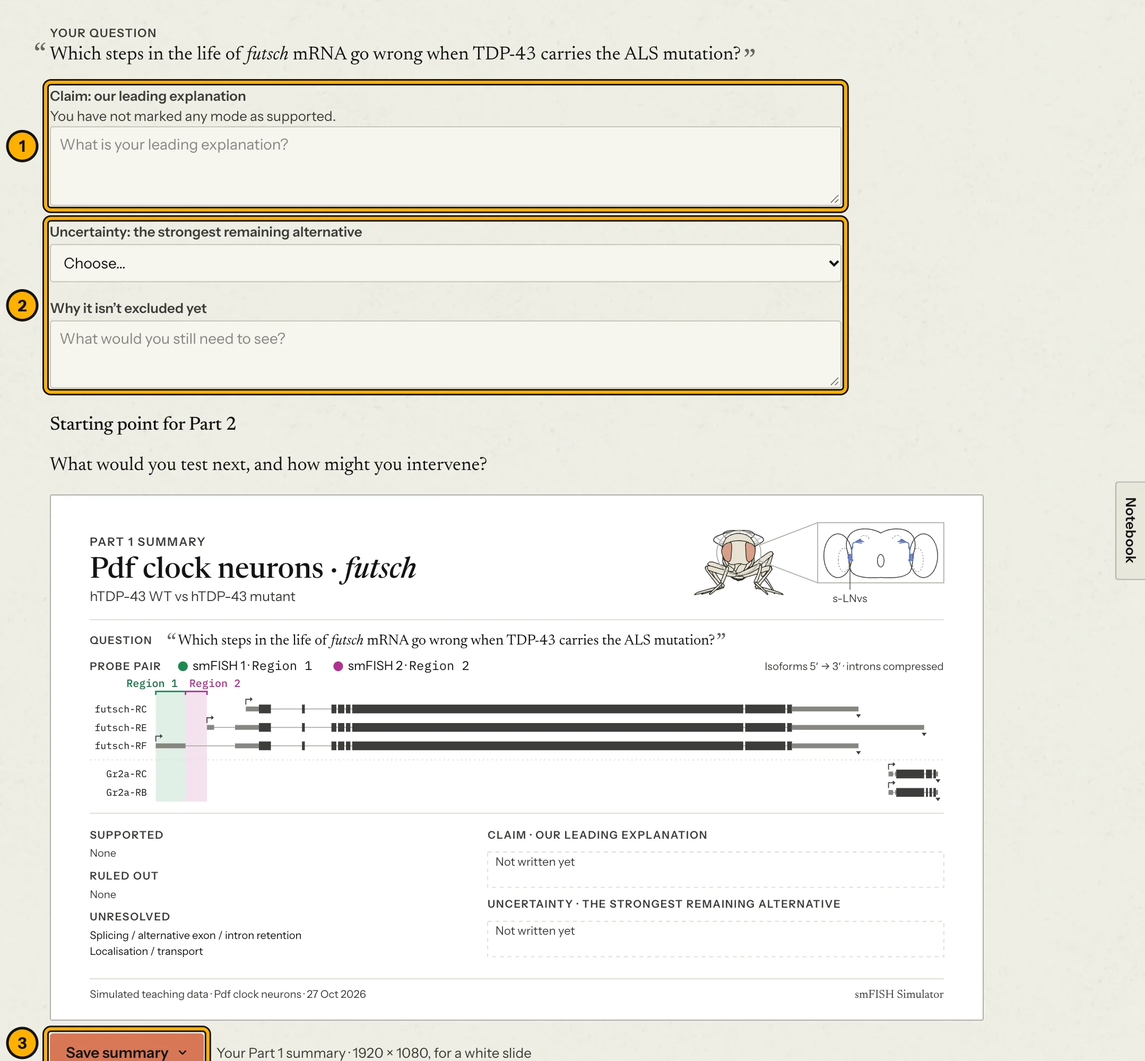
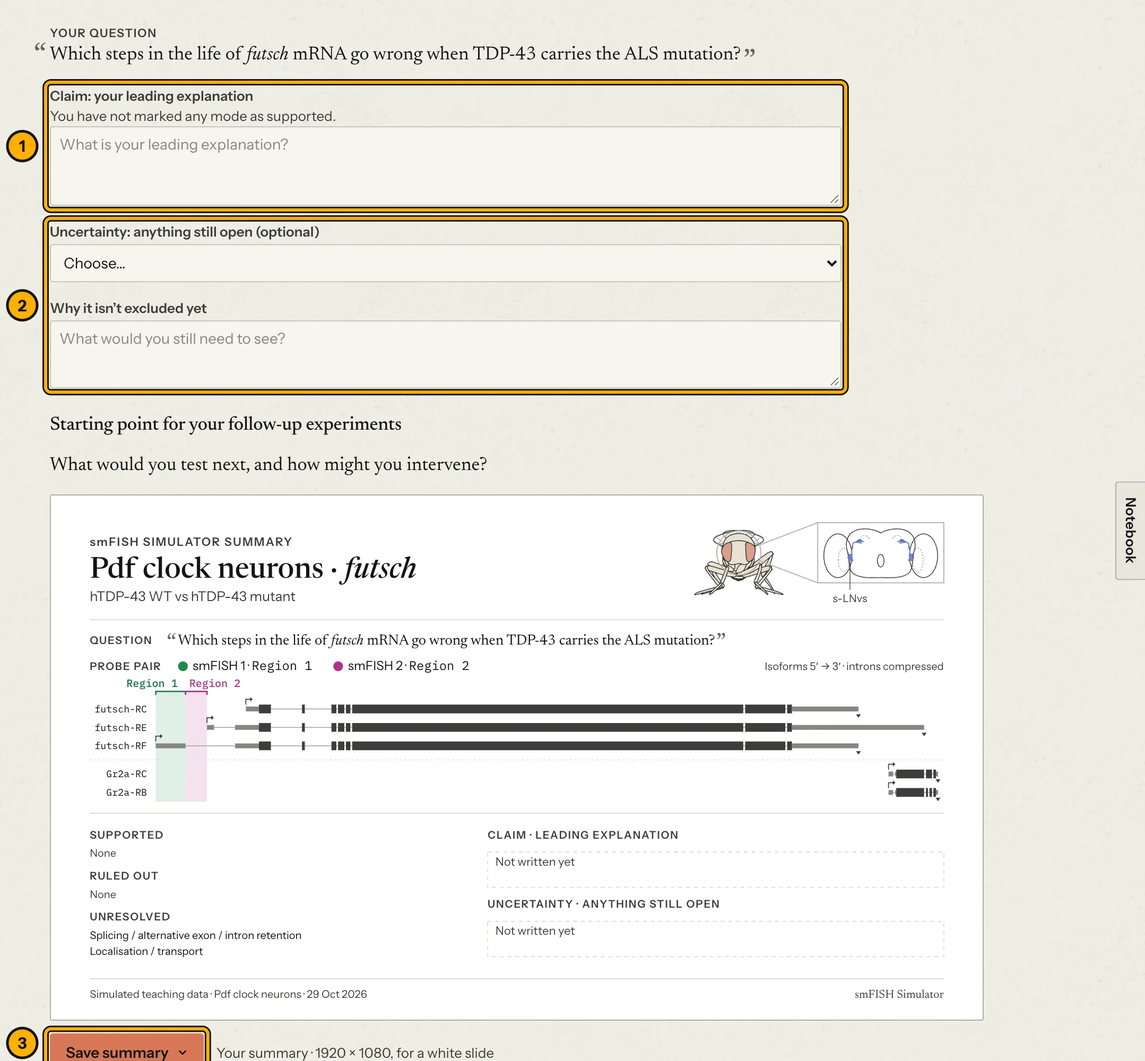
Individual use and Save phenotype (instructor, 2026-10-29): students now work through the app on their own, after the session, so the student-facing text drops "Part 1"/"Part 2" and the group wording. The summary slide is headed "smFISH SIMULATOR SUMMARY" with "CLAIM · LEADING EXPLANATION" and "UNCE

diff --git a/site/js/export.js b/site/js/export.js
@@ -162,6 +162,87 @@ export function bindSaveMenu(wrap, { render, filename }) {
   }
 }
 
+// A live story SVG as standalone markup in the light theme, whatever the current theme: the page
+// switches to light, every element's paint and type are copied from its computed style, and the
+// page switches back, all in one task, so nothing is painted in between. Transitions are held
+// off throughout, or the restored colours would fade back in. Things the drawing uses from
+// elsewhere on the page (the fly sprites) come along in <defs>; the ink boil is left out. The
+// sprites' strokes don't scale with the drawing, so `scale` (export width ÷ width on screen)
+// keeps them as heavy, relative to the drawing, as they look on the page.
+const PAINT = ["fill", "fill-opacity", "fill-rule", "stroke", "stroke-width", "stroke-opacity", "stroke-dasharray",
+  "stroke-dashoffset", "stroke-linecap", "stroke-linejoin", "stroke-miterlimit", "opacity", "visibility", "display",
+  "font-family", "font-size", "font-weight", "font-style", "letter-spacing", "text-anchor", "dominant-baseline",
+  "paint-order", "stop-color", "stop-opacity", "mix-blend-mode"];
+
+const refsIn = el => {
+  const ids = [];
+  for (const n of [el, ...el.querySelectorAll("*")]) {
+    for (const a of n.attributes) {
+      const m = a.name.endsWith("href") ? a.value.match(/^#(.+)/) : a.value.match(/url\(["']?#([^)"']+)/);
+      if (m) ids.push(m[1]);
+    }
+  }
+  return ids;
+};
+
+export function lightSVG(svg, { scale = 1 } = {}) {
+  const html = document.documentElement, theme = html.getAttribute("data-theme");
+  const hold = Object.assign(document.createElement("style"), { textContent: "*,*::before,*::after{transition:none!important}" });
+  document.head.append(hold);
+  html.setAttribute("data-theme", "light");
+  try {
+    const clone = svg.cloneNode(true);
+    clone.querySelectorAll("[filter*='ink-boil']").forEach(n => n.removeAttribute("filter"));
+    // the sprites and gradients it points to, and whatever they point to in turn
+    const defs = document.createElementNS(svg.namespaceURI, "defs");
+    const seen = new Set();
+    const todo = refsIn(clone);
+    while (todo.length) {
+      const id = todo.pop();
+      if (seen.has(id) || clone.querySelector(`[id="${CSS.escape(id)}"]`)) continue;
+      seen.add(id);
+      const src = document.getElementById(id);
+      if (!src || svg.contains(src)) continue;
+      const copy = src.cloneNode(true);
+      defs.append(copy);
+      todo.push(...refsIn(copy));
+    }
+    // the custom properties those copies read (the fly's ink and washes) travel with the paint
+    const vars = [...new Set([...defs.innerHTML.matchAll(/var\((--[\w-]+)/g)].map(m => m[1]))];
+    const from = [svg, ...svg.querySelectorAll("*")], to = [clone, ...clone.querySelectorAll("*")];
+    from.forEach((el, i) => {
+      const cs = getComputedStyle(el), st = to[i].style;
+      for (const p of [...PAINT, ...vars]) st.setProperty(p, cs.getPropertyValue(p));
+      if (to[i].localName === "use" && seen.has(to[i].getAttribute("href")?.slice(1))) {
+        st.setProperty("stroke-width", `${parseFloat(cs.strokeWidth) * scale}px`);
+      }
+    });
+    clone.prepend(defs);
+    return clone;
+  } finally {
+    if (theme == null) html.removeAttribute("data-theme");
+    else html.setAttribute("data-theme", theme);
+    getComputedStyle(svg).fill;   // settle the page in its own theme before transitions return
+    hold.remove();
+  }
+}
+
+// Step 1's assay as a 1920 × 1080 PNG for a white slide: the step's title and the neuron system
+// above the drawing, as the plot export has them.
+export function assayToCanvas(svg, { title, system }) {
+  const W = 1920, H = 1080, top = 150, foot = 80;
+  const { width: vw, height: vh } = svg.viewBox.baseVal;
+  const h = H - top - foot, w = Math.min(W - 80, h * vw / vh), dh = w * vh / vw;
+  const art = lightSVG(svg, { scale: w / (svg.getBoundingClientRect().width || w) });
+  for (const [k, v] of Object.entries({ x: (W - w) / 2, y: top + (h - dh) / 2, width: w, height: dh })) art.setAttribute(k, v);
+  const esc = s => s.replace(/&/g, "&amp;").replace(/</g, "&lt;");
+  const inner = `<text x="64" y="76" font-family="${LIGHT.sans}" font-size="34" font-weight="600" fill="${LIGHT.text}">${esc(title)}</text>
+    <text x="64" y="116" font-family="${LIGHT.sans}" font-size="24" fill="${LIGHT.text2}">${esc(system)}</text>
+    ${new XMLSerializer().serializeToString(art)}
+    <text x="64" y="${H - 40}" font-family="${LIGHT.sans}" font-size="24" fill="${LIGHT.text2}">Simulated teaching data</text>`;
+  return svgToCanvas(inner, W, H, LIGHT.bg);
+}
+
 // Resolved colours for a light, slide-ready export, whatever the current theme.
 export const LIGHT = {
   bg: "#FFFFFF", text: "#141413", text2: "#3D3D3A", text3: "#66655F", grid: "#DEDBD2", band: "#F1EFE8", ch1: "#1F8A4C", ch2: "#B0328F", both: "#3D3D3A", ch1Text: "#177341", ch2Text: "#B0328F",

diff --git a/site/js/steps/step8.js b/site/js/steps/step8.js
@@ -1,6 +1,6 @@
 // Step 8: revise the explanation → Claim and Uncertainty, under the question from step 4; the
-// starting point for Part 2: the experiment summary (with the pair on the read-only transcript
-// map), a preview of the Part 1 summary slide and its Save menu (copy or download). No gate; nothing is
+// starting point for follow-up experiments: the experiment summary (with the pair on the read-only transcript
+// map), a preview of the summary slide and its Save menu (copy or download). No gate; nothing is
 // required.
 
 import { MODES, VERDICTS, question } from "../content.js";
@@ -38,19 +38,19 @@ export async function mount(root, ctx) {
       </section>
       <section class="revise" aria-label="Claim and uncertainty">
         <div class="yourq"><h2 class="t-label">Your question</h2><p class="yourq__text">${question(c)}</p></div>
-        <label class="field"><span class="field__label">Claim: our leading explanation</span>
+        <label class="field"><span class="field__label">Claim: your leading explanation</span>
           <span class="field__hint" id="claim-prompts"></span>
           <textarea class="textarea" rows="3" data-bind="claim" placeholder="What is your leading explanation?" aria-describedby="claim-prompts"></textarea></label>
-        <label class="field"><span class="field__label">Uncertainty: the strongest remaining alternative</span>
+        <label class="field"><span class="field__label">Uncertainty: anything still open (optional)</span>
           <select class="select" data-bind="uncertainty.mode" id="unc-mode"></select></label>
         <label class="field"><span class="field__label">Why it isn’t excluded yet</span>
           <textarea class="textarea" rows="2" data-bind="uncertainty.why" placeholder="What would you still need to see?"></textarea></label>
       </section>
       <section class="slide" aria-labelledby="p2-h">
-        <h2 class="t-h3" id="p2-h">Starting point for Part 2</h2>
+        <h2 class="t-h3" id="p2-h">Starting point for your follow-up experiments</h2>
         <p class="t-story">What would you test next, and how might you intervene?</p>
-        <svg class="slide__svg" viewBox="0 0 ${SLIDE.W} ${SLIDE.H}" role="img" aria-label="Preview of your Part 1 summary slide"></svg>
-        <p class="next-row">${saveMenuHTML({ label: "Save summary", what: "summary", cls: "btn btn--primary btn--lg" })}<span class="t-ui t-muted">Your Part 1 summary · 1920 × 1080, for a white slide</span></p>
+        <svg class="slide__svg" viewBox="0 0 ${SLIDE.W} ${SLIDE.H}" role="img" aria-label="Preview of your summary slide"></svg>
+        <p class="next-row">${saveMenuHTML({ label: "Save summary", what: "summary", cls: "btn btn--primary btn--lg" })}<span class="t-ui t-muted">Your summary · 1920 × 1080, for a white slide</span></p>
       </section>
       <p class="next-row">
         <a class="btn btn--lg" href="${href(id, 7)}">← Back to results</a>

diff --git a/site/js/summary.js b/site/js/summary.js
@@ -1,5 +1,5 @@
-// The Part 1 summary slide (16:9, 1920×1080, light background for white slides), the starting
-// point for Part 2: case, genotypes and a locator for the neurons; the question from step 4; the
+// The summary slide (16:9, 1920×1080, light background for white slides), the starting
+// point for follow-up experiments: case, genotypes and a locator for the neurons; the question from step 4; the
 // probe pair on the transcript map; mode verdicts; Claim and Uncertainty. One SVG serves as the
 // on-page preview and the copied PNG. Empty fields stay as blank placeholders, so copying always works.
 
@@ -180,7 +180,7 @@ export function summarySVG({ c, s, date, g, art }) {
   const label = (x, y, text) => `<text x="${x}" y="${y}" font-family="${P.sans}" font-size="22" font-weight="600" letter-spacing="2" fill="${P.text2}">${text}</text>`;
 
   // header: the case, the two genotypes, and where the neurons are
-  out.push(`<text x="80" y="104" font-family="${P.sans}" font-size="24" font-weight="600" letter-spacing="2.5" fill="${P.text2}">PART 1 SUMMARY</text>`);
+  out.push(`<text x="80" y="104" font-family="${P.sans}" font-size="24" font-weight="600" letter-spacing="2.5" fill="${P.text2}">smFISH SIMULATOR SUMMARY</text>`);
   out.push(`<text x="80" y="170" font-family="${P.serif}" font-size="60" font-weight="500" fill="${P.text}">${esc(c.system)} · <tspan font-style="italic">${esc(c.target.gene)}</tspan></text>`);
   out.push(`<text x="80" y="218" font-family="${P.sans}" font-size="28" fill="${P.text2}">hTDP-43 WT vs hTDP-43 mutant</text>`);
   if (art) out.push(locator({ ...art, loc: CASE_LOCATOR[c.id], cells: c.cells, right: W - 80, top: 56 }));
@@ -250,7 +250,7 @@ export function summarySVG({ c, s, date, g, art }) {
   const rx = 900, rw = W - 80 - rx;
   const um = s.uncertainty.mode === "other" ? "Other" : s.uncertainty.mode ? MODES[s.uncertainty.mode].title : "";
   const unc = [um, s.uncertainty.why].filter(Boolean).join(": ");
-  const fields = [["CLAIM · OUR LEADING EXPLANATION", s.claim], ["UNCERTAINTY · THE STRONGEST REMAINING ALTERNATIVE", unc]];
+  const fields = [["CLAIM · LEADING EXPLANATION", s.claim], ["UNCERTAINTY · ANYTHING STILL OPEN", unc]];
   let laid;
   for (const [size, max] of [[34, 3], [30, 3], [27, 4], [24, 4], [22, 4]]) {
     laid = fields.map(([name, text]) => ({ name, size, lines: text ? wrap(text, serifFont(size), rw, max) : null }));

diff --git a/site/js/steps/nmj-step1.js b/site/js/steps/nmj-step1.js
@@ -16,6 +16,8 @@ import { VB, LANES, H, FLY_H, LINE, VW, FLOOR, vialMarkup, impactMarkup, labelMa
   laneFlies, ambientPose, climbPose, liftAt, impactFlash, aboveCount, timerAt, poseTransform } from "../vial.js";
 import { handOff, takeHandOff, growFrom } from "../handoff.js";
 import { rollCaption } from "../caption.js";
+import { assayToCanvas, bindSaveMenu, saveMenuHTML } from "../export.js";
+import { CASES } from "../content.js";
 
 const G_END = 3.5;
 const CAP = { i: 3, i2: 7 };   // H-time each caption takes over: every caption is up for at least 3 s
@@ -53,6 +55,7 @@ export async function mount(root, ctx) {
       <div class="assay__controls">
         <button class="btn btn--primary btn--lg" type="button" data-act="start" hidden>Tap the flies down</button>
         <a class="btn btn--primary btn--lg assay__end" href="${href(ctx.caseId, 2)}">Next: look inside the fly</a>
+        ${saveMenuHTML({ label: "Save phenotype", what: "phenotype", extra: "assay__end" })}
         <button class="btn" type="button" data-act="skip" hidden>Skip animation</button>
         <button class="btn" type="button" data-act="replay" hidden>Tap them down again</button>
       </div>
@@ -214,6 +217,10 @@ export async function mount(root, ctx) {
   // the descent (step 2) starts from the WT fly highest on the wall, one that passed the line
   const chosen = lanes[0].flies.filter(f => f.end !== "floor").sort((a, b) => a.end - b.end)[0];
   root.querySelector(".assay__controls a.btn").addEventListener("click", () => handOff("fly", chosen.node.g));
+  bindSaveMenu(root.querySelector(".savemenu"), {
+    render: () => assayToCanvas(svg, { title: root.querySelector("h1").textContent, system: CASES[ctx.caseId].system }),
+    filename: () => `smFISH-${ctx.caseId}-phenotype.png`,
+  });
   window.__assay = { tlG, tlH, clock, lanes };   // for review tooling
 
   return () => {

diff --git a/site/js/steps/mb-step1.js b/site/js/steps/mb-step1.js
@@ -14,6 +14,8 @@ import { tubeFly } from "../monitor.js";
 import { VB, LANES, H, FLY_H, DROP, TUBE_SPAN, odourDefs, driftOdours, mazeMarkup, piMarkup, laneFlies, flyPose, poseTransform, armCounts, odourAt, shockAt, boltAt, feedAt } from "../tmaze.js";
 import { handOff, takeHandOff, growFrom } from "../handoff.js";
 import { rollCaption } from "../caption.js";
+import { assayToCanvas, bindSaveMenu, saveMenuHTML } from "../export.js";
+import { CASES } from "../content.js";
 
 const G_END = 3.5;
 const FEED_TAG = { oct: "OCT", air: "air", mch: "MCH" };
@@ -43,6 +45,7 @@ export async function mount(root, ctx) {
       <div class="assay__controls">
         <button class="btn btn--primary btn--lg" type="button" data-act="start" hidden>Train the flies</button>
         <a class="btn btn--primary btn--lg assay__end" href="${href(ctx.caseId, 2)}">Next: look inside the brain</a>
+        ${saveMenuHTML({ label: "Save phenotype", what: "phenotype", extra: "assay__end" })}
         <button class="btn" type="button" data-act="skip" hidden>Skip animation</button>
         <button class="btn" type="button" data-act="replay" hidden>Replay the training</button>
       </div>
@@ -226,6 +229,10 @@ export async function mount(root, ctx) {
   // the descent (step 2) starts from a WT fly that remembered: one in the MCH arm
   const chosen = lanes[0].flies.find(f => f.arm === "mch" && !f.ceiling);
   root.querySelector(".assay__controls a.btn").addEventListener("click", () => handOff("fly", chosen.node.g));
+  bindSaveMenu(root.querySelector(".savemenu"), {
+    render: () => assayToCanvas(svg, { title: root.querySelector("h1").textContent, system: CASES[ctx.caseId].system }),
+    filename: () => `smFISH-${ctx.caseId}-phenotype.png`,
+  });
   window.__assay = { tlG, tlH, clock, lanes };   // for review tooling
 
   return () => {

diff --git a/site/js/steps/step1.js b/site/js/steps/step1.js
@@ -13,6 +13,8 @@ import { loadFlySprite, flyNode, groomFrame, startBoil, stopBoil, ensureBoilFilt
 import { BINS, DAY_S, activity, walkPause, walkAt, crossingsBy, lastCrossing, timelapse, lapseAt, tube, tubeFly, actogramRows } from "../monitor.js";
 import { handOff, takeHandOff, growFrom } from "../handoff.js";
 import { rollCaption } from "../caption.js";
+import { assayToCanvas, bindSaveMenu, saveMenuHTML } from "../export.js";
+import { CASES } from "../content.js";
 import { term } from "../glossary.js";
 import { mulberry32 } from "../prng.js";
 
@@ -127,6 +129,7 @@ export async function mount(root, ctx) {
       <div class="assay__controls">
         <button class="btn btn--primary btn--lg" type="button" data-act="start" hidden>Record fly activity</button>
         <a class="btn btn--primary btn--lg assay__end" href="${href(ctx.caseId, 2)}">Next: look inside the brain</a>
+        ${saveMenuHTML({ label: "Save phenotype", what: "phenotype", extra: "assay__end" })}
         <button class="btn" type="button" data-act="skip" hidden>Skip animation</button>
         <button class="btn" type="button" data-act="replay" hidden>Replay the recording</button>
       </div>
@@ -333,6 +336,10 @@ export async function mount(root, ctx) {
   render();
   // the descent (step 2) starts from the WT fly where it stands now
   root.querySelector(".assay__controls a.btn").addEventListener("click", () => handOff("fly", lanes[0].fly.g));
+  bindSaveMenu(root.querySelector(".savemenu"), {
+    render: () => assayToCanvas(svg, { title: root.querySelector("h1").textContent, system: CASES[ctx.caseId].system }),
+    filename: () => `smFISH-${ctx.caseId}-phenotype.png`,
+  });
   window.__assay = { tlG, tlH, clock, lanes };   // for review tooling
 
   return () => {

diff --git a/site/js/notebook.js b/site/js/notebook.js
@@ -83,8 +83,8 @@ function drawerBody(caseId) {
 
   const unresolved = s.shortlist.filter(m => s.verdicts[m] === "unresolved");
   const revise = `
-    ${area("claim", "Claim: our leading explanation", "What is your leading explanation?")}
-    <label class="field"><span class="field__label">Uncertainty: the strongest remaining alternative</span>
+    ${area("claim", "Claim: your leading explanation", "What is your leading explanation?")}
+    <label class="field"><span class="field__label">Uncertainty: anything still open (optional)</span>
       <select class="select" data-bind="uncertainty.mode">
         <option value="">Choose…</option>
         ${unresolved.map(m => `<option value="${m}">${esc(MODES[m].title)}</option>`).join("")}

diff --git a/site/css/app.css b/site/css/app.css
@@ -834,7 +834,7 @@ body[data-notebook="drawer"] .bench { padding-right: 44px; }
 .savemenu--viewer .savemenu__menu svg { color: var(--viewer-text-2); }
 @media (prefers-reduced-motion: reduce) { .savemenu__btn svg { transition: none; } }
 
-/* ---------- step 8: the Part 1 summary slide, the starting point for Part 2 ---------- */
+/* ---------- step 8: the summary slide, the starting point for follow-up experiments ---------- */
 .slide { display: flex; flex-direction: column; gap: var(--sp-3); max-width: 880px !important; }
 .slide__svg { display: block; width: 100%; height: auto; border: var(--hairline) solid var(--border-strong); border-radius: var(--r-chip); background: #fff; }
 

diff --git a/site/js/map.js b/site/js/map.js
@@ -397,7 +397,7 @@ export function drawStrip(svg, g, pair, width) {
   return bottom;
 }
 
-// The pair on the Part 1 summary slide (summary.js): the map's rows in its compressed coordinates
+// The pair on the summary slide (summary.js): the map's rows in its compressed coordinates
 // with their names, start and end marks, and the pair's two regions as ink bands under a bracket
 // and ID (the probe track's other regions are left out). Markup with inline colours from the
 // palette P, so one string serves the page preview and the PNG. Returns { svg, height }.

diff --git a/docs/spec.md b/docs/spec.md
@@ -541,7 +541,7 @@ PixiJS draws the microscopy viewer; everything else is plain HTML, CSS, SVG and 
 - **Step 5 (hypotheses):** mode cards in three groups; side pane: the question, a small copy of the step 4 drawing, the step 3 recap, the count and Next (see *Hypotheses (step 5)*).
 - **Step 6 (probe design):** a workbench like steps 3, 5 and 7, not a full-width page. Head: the compact gene card. Main (left): one line on what smFISH shows, then the transcript map (its header, the map with its probe track and the legend box), with the "How two-colour smFISH works" help link directly under the legend box. Side pane (right, scrolling on its own), top to bottom: "Your pair"; the instruction "Click two regions on the map. The first fills smFISH 1, the second smFISH 2."; two channel slots side by side (coloured by the current LUTs), smFISH 1 left and smFISH 2 right; *Swap channels*; a full-width "Show results"; then "Predictions (optional)".
 - **Step 7 (microscopy reveal):** the viewer fills the main column, with the plot in a collapsible drawer docked under it (see *Count plot*); right column with channel toggles, decoder legend and animal selector (1–3), switching to the mode cards via a *Viewer controls | Compare* tab. Head: the probe strip and "Try another pair" (see *Microscopy reveal (step 7)*). The side pane on every workbench step (3 and 5–7) is `clamp(277px, 19vw, 342px)` wide.
-- **Step 8 (interpret & revise):** single column: experiment summary (with the read-only transcript map), the question, Claim, Uncertainty, Starting point for Part 2 (the Part 1 summary slide), "Save summary" (see *Interpret & revise (step 8)*).
+- **Step 8 (interpret & revise):** single column: experiment summary (with the read-only transcript map), the question, Claim, Uncertainty, Starting point for your follow-up experiments (the summary slide), "Save summary" (see *Interpret & revise (step 8)*).
 - **Genotype comparison:** synced split view (control | mutant, linked pan and zoom) by default, plus a flicker key in the viewer toolbar to switch genotype in place.
 - **Full screen (steps 3 and 7; instructor, 2026-10-12, for laptop screens):** an expand icon at the right end of the viewer toolbar (accessible name "Full screen") gives the viewer the whole screen. The browser goes full screen where it can; the page's own full view works without it.
 	- *Layout:* the viewer's toolbar, fields, legend and hint bar keep their places. The side pane's viewer controls float over the fields' top-right corner in a panel headed "Viewer controls", which collapses to its header (remembered per browser). In step 7 the plot drawer comes along under the viewer and works as in the workbench. The step head, the notebook fields, the Compare tab and Next stay in the workbench view.
@@ -566,7 +566,7 @@ PixiJS draws the microscopy viewer; everything else is plain HTML, CSS, SVG and 
 - Students paste screenshots into PowerPoint as evidence, so everything needed to read an image is inside the frame:
 	- *Viewer:* a corner overlay inside the viewport with the genotype first, in bold ("hTDP-43 WT" | "hTDP-43 mutant"; instructor, 2026-10-19), then the channel (step 3: "TDP-43 protein"; step 7: the two region labels with their LUT colours), animal and "simulated data", plus a scale bar. Examples: "**hTDP-43 WT** · ● TDP-43 protein · animal 1 · simulated data" in step 3 and "**hTDP-43 WT** · ● Region 6 · ● Region 5 · animal 1 · simulated data" in step 7. The viewer PNG burns in the same line. In step 7 the gene follows the genotype, in italics ("**hTDP-43 WT** · *futsch* · ● Region 6 · ● Region 5 · animal 1 · simulated data"; instructor, 2026-10-15), and the line wraps onto a second line when it is wider than its field. The bold is IBM Plex Mono SemiBold (600), vendored with the other weights.
 	- *Plot:* a self-describing title (regions, measure, n = 3 animals, "simulated data"), e.g. "Region 6 (smFISH 1) · Spots in each compartment · mean ± SD, n = 3 animals · simulated data". The PNG header is two lines: the gene in italics and the regions ("*futsch* · Region 6 (smFISH 1)", 34 px), then the measure ("<measure> · mean ± SD, n = 3 animals · simulated data", 24 px), so a pasted slide names its gene (instructor, 2026-10-15).
-- **Save menu** (instructor, 2026-10-20): each export is one button, "Save view ▾" in the viewer toolbar, "Save plot ▾" in the plot drawer and "Save summary ▾" in step 8, which opens two choices: "Copy …" to the clipboard, ready to paste into a slide, and "Download … as PNG". The viewer's choices say "current view" ("Copy current view", "Download current view as PNG"): the PNG is what is on screen, at its zoom and pan, with the channels shown, both genotypes in Split and the one showing in Flicker. Where the clipboard is blocked, Copy downloads the file instead and the button says "Saved as file". The labels fit the viewer toolbar on one line at 1280×720 in every case.
+- **Save menu** (instructor, 2026-10-20): each export is one button, "Save view ▾" in the viewer toolbar, "Save plot ▾" in the plot drawer and "Save summary ▾" in step 8, which opens two choices: "Copy …" to the clipboard, ready to paste into a slide, and "Download … as PNG". The viewer's choices say "current view" ("Copy current view", "Download current view as PNG"): the PNG is what is on screen, at its zoom and pan, with the channels shown, both genotypes in Split and the one showing in Flicker. Where the clipboard is blocked, Copy downloads the file instead and the button says "Saved as file". The labels fit the viewer toolbar on one line at 1280×720 in every case. Since 2026-10-29, step 1 has a "Save phenotype ▾" menu beside Next, shown once the recording finishes (not during replay), with the same two choices: it exports a 1920 × 1080 slide with the step's title and the neuron system name, the assay drawing redrawn in the light theme (ink boil left out) and "Simulated teaching data" at the foot, as smFISH-<case>-phenotype.png.
 - Slide resolution for both; the plot can export on a light background for white slides; the viewer always exports on black.
 
 **Onboarding and states**
@@ -718,10 +718,10 @@ PixiJS draws the microscopy viewer; everything else is plain HTML, CSS, SVG and 
 - **Layout:** back to the calm single-column story layout.
 - **Experiment summary (read-only):** a facts row (a "Neuron system" row with the system's name, gene, probe pair chips; the name as on the rail, instructor, 2026-10-16), then the step 6 transcript map (the same drawing as step 7's "Your probe pair" card: scale toggle and legend, the pair in its channel inks; regions can't be chosen), then the mode verdicts grouped as supported / ruled out / unresolved.
 - **Your question:** the step 4 question above the Claim (2026-10-16), so the claim reads as its answer. The Claim's label is unchanged.
-- **Claim:** "Our leading explanation", 1–2 sentences of free text; the supported modes are listed above as prompts, not pre-filled.
-- **Uncertainty:** "The strongest remaining alternative": a dropdown of the group's unresolved modes (plus "other") and one line on why it isn't excluded yet.
-- **Starting point for Part 2:** a heading, one line ("What would you test next, and how might you intervene?"), then a 16:9 preview of the Part 1 summary slide (below), then the "Save summary" button (a Save menu: copy or download) with the note "Your Part 1 summary · 1920 × 1080, for a white slide". The preview and the saved PNG are the same drawing. Part 2 is open: groups design and present it in their own slides, and the site gives no template.
-- **"Save summary":** the **Part 1 summary** slide (eyebrow "Part 1 summary"), 16:9 at 1920×1080, light background for white slides, text sized for a slide. Top to bottom:
+- **Claim:** labelled "Claim: your leading explanation", 1–2 sentences of free text; the supported modes are listed above as prompts, not pre-filled.
+- **Uncertainty:** labelled "Uncertainty: anything still open (optional)": a dropdown of the group's unresolved modes (plus "other") and one line on why it isn't excluded yet.
+- **Starting point for your follow-up experiments:** a heading, one line ("What would you test next, and how might you intervene?"), then a 16:9 preview of the summary slide (below), then the "Save summary" button (a Save menu: copy or download) with the note "Your summary · 1920 × 1080, for a white slide". The preview and the saved PNG are the same drawing. Part 2 is open: groups design and present it in their own slides, and the site gives no template.
+- **"Save summary":** the **summary** slide (header "smFISH SIMULATOR SUMMARY"), 16:9 at 1920×1080, light background for white slides, text sized for a slide. Top to bottom:
 	- **Header:** title "system · gene" (e.g. "Pdf clock neurons · *futsch*", instructor, 2026-10-16) and the genotypes "hTDP-43 WT vs hTDP-43 mutant". Top right, a **locator**: the fly from the front (flybody drawing; antennae removed, as in step 2, because from the front they would make a face) with its head ringed, and the brain enlarged beside it in a framed inset, the case's neurons drawn on both sides in the anatomy blue and labelled (Pdf: "s-LNvs"). It is the step 2 descent in one picture. Leg motor neuron: the fly in the descent's side view (turned slightly towards us), its thorax and one leg ringed, with an inset of the VNC and that leg holding the one motor neuron in blue, on one side only, labelled "Leg motor neuron" (instructor, 2026-10-13).
 	- **Question (instructor, 2026-10-16):** one row across the slide under the header rule, labelled "QUESTION" like the probe pair's row, the question in 30 px upright serif on one line between large grey quotation marks, the opening one hung left of the text (italic until 2026-10-17).
 	- **Probe pair:** the key (● smFISH 1 · Region 6, ● smFISH 2 · Region 5, for example) and the transcript rows with their isoform names, transcription-start and 3′-end marks, in the map's compressed coordinates, the overlapping same-strand gene's rows below a dashed divider. The pair's two regions are channel-ink bands under a bracket and region label, pushed apart by their measured width when close. The probe track's other regions are left out. Noted "Isoforms 5′ → 3′ · introns compressed".

diff --git a/site/guide/guide.md b/site/guide/guide.md
@@ -7,7 +7,7 @@
 
 # Webapp usage guide
 
-The smFISH Simulator is an interactive web app for the *L4 Core Skills in MCB* feedback session. Working in groups, you will design a two-colour single-molecule FISH (smFISH) experiment to investigate how an ALS-linked mutation in TDP-43 disrupts post-transcriptional regulation of a target mRNA in *Drosophila* neurons.
+The smFISH Simulator is an interactive web app for the *L4 Core Skills in MCB* feedback session. You will design a two-colour single-molecule FISH (smFISH) experiment to investigate how an ALS-linked mutation in TDP-43 disrupts post-transcriptional regulation of a target mRNA in *Drosophila* neurons.
 
 > **Microscopy data in the app are simulated for teaching.** The genes and transcript maps come from FlyBase, but the images, counts and parts of the biology are invented for this exercise. Do not cite them as research findings.
 
@@ -18,7 +18,7 @@ The smFISH Simulator is an interactive web app for the *L4 Core Skills in MCB* f
 - Compare smFISH signals and quantitative spot counts across neuronal compartments (nucleus, cell body, axon and synaptic terminals).
 - Separate direct observation from interpretation, and evaluate each hypothesis against the evidence.
 
-Your goal in Part 1 is to narrow down the candidate mechanisms, not to solve the case completely. At least one plausible mechanism will remain unresolved from smFISH alone, and that open question forms the starting point for your group's Part 2 experimental design.
+Your goal is to narrow down the candidate mechanisms, not to solve the case completely. Any question that smFISH alone cannot settle becomes the starting point for your follow-up experiments.
 
 ## Open the app
 
@@ -27,7 +27,7 @@ Your goal in Part 1 is to narrow down the candidate mechanisms, not to solve the
 
 Both links run the same app. Use a laptop with a current version of Chrome, Edge, Firefox or Safari. The interface requires a window of at least 1280 × 720 pixels and is not designed for phones.
 
-**Stay on one link and one browser for the whole session.** Your notebook is saved locally in that browser for that URL only. Opening the other link, switching browsers or using a private/incognito window starts with an empty notebook (and closing a private window discards your notes). If your group uses multiple laptops to explore, remember that **notebooks do not sync between laptops**: nominate one person's laptop to record the group's final notes, verdicts and summary slide.
+**Stay on one link and one browser.** Your notebook is saved locally in that browser for that URL only. Opening the other link, switching browsers or using a private/incognito window starts with an empty notebook (and closing a private window discards your notes). **Notebooks do not sync between computers**, so finish the app on the computer you started on.
 
 ## Groups
 
@@ -58,7 +58,7 @@ Watch the introductory sequence, then select your group's assigned neuronal syst
 
 ![The three neuron systems on the start page](img/choose.webp)
 
-1. Click your assigned system. A short animation illustrates the *Drosophila* behavioural assay used to characterise the mutant phenotype; click **Next** when it finishes.
+1. Click your assigned system. A short animation illustrates the *Drosophila* behavioural assay used to characterise the mutant phenotype. When it finishes, **Save phenotype** copies or downloads the result as a PNG for your slides; click **Next** to continue.
 
 ### 2. Anatomy
 
@@ -113,25 +113,25 @@ Inspect the simulated confocal images and quantitative spot data across compartm
 1. Your active probe pair. Click **Try another pair** to return to Step 6; you can test as many probe combinations as you like.
 2. Simulated confocal images (blurred in this guide). The legend directly beneath explains how to interpret dual-channel colocalisation (white) versus single-channel spots (green or magenta).
 3. Switch between **Viewer controls** (channels and the three biological replicates, `Animal 1–3`) and **Compare** (your notes and hypothesis verdicts).
-4. Assign a verdict to each shortlisted mode (*Ruled out*, *Supported* or *Unresolved*) and summarise the evidence. *Unresolved* is an expected and valid verdict when smFISH alone cannot settle a mechanism.
+4. Assign a verdict to each shortlisted mode (*Ruled out*, *Supported* or *Unresolved*) and summarise the evidence. *Unresolved* is a valid verdict when smFISH alone cannot settle a mechanism.
 5. Click **Show plot** to view the quantitative SuperPlots across replicates and compartments, and use the dropdown menu to switch metrics. **Save plot** copies or downloads the figure.
 
 Step 8 unlocks once every mode on your shortlist has been given a verdict.
 
 ### 8. Interpret & revise
 
-Review the summary of your experiment and formulate your group's conclusion.
+Review the summary of your experiment and formulate your conclusion.
 
 ![Step 8: claim, uncertainty and the summary slide](img/step8.webp)
 
 1. **Claim**: state your leading mechanistic explanation for how mutant TDP-43 affects the target mRNA, supported by your smFISH evidence.
-2. **Uncertainty**: identify the strongest alternative hypothesis you cannot yet rule out, and explain why.
-3. **Save summary** exports a 16:9 overview slide containing your question, probe pair, verdicts, claim and uncertainty. Use this alongside your saved viewer images and plots as the foundation for your group's Part 2 presentation.
+2. **Uncertainty** (optional): note anything still open, such as a mode you cannot yet rule out, and explain why.
+3. **Save summary** exports a 16:9 overview slide containing your question, probe pair, verdicts, claim and uncertainty. Use this alongside your saved viewer images and plots as the foundation for your presentation.
 
 ## Saving your work
 
 - Everything you type in the notebook stays locally in your browser; nothing is uploaded to a server.
-- To export figures for your presentation, use the **Save** menu on the microscopy viewer, the quantification plot, or the Step 8 summary slide: choose **Copy** to paste directly into PowerPoint, or **Download** to save a PNG file.
+- To export figures for your presentation, use the **Save** menu on the Step 1 phenotype, the microscopy viewer, the quantification plot, or the Step 8 summary slide: choose **Copy** to paste directly into PowerPoint, or **Download** to save a PNG file.
 
 ## If something goes wrong
 

diff --git a/docs/review.md b/docs/review.md
@@ -618,3 +618,28 @@ The instructor asked for a short student guide they can edit themselves: what th
 | 3 | Viewer tour | "drag to move" disagreed with the viewer's own hint and the guide ("drag to pan"). | Fixed: "drag to pan". |
 | 4 | mb step 1 note | "ten." sat alone on the last line at 1280×720. | Fixed: "show ten" kept together. |
 | 5 | Rail, steps 7–8 | The short reason names that step's own requirement even when the real blocker is an earlier one (shortlist). This was already the case before the change. | Open, not changed. |
+
+## 2026-10-29: individual use wording and step 1's Save phenotype (instructor)
+
+**Change.** Students now work through the app on their own, after the session. The text no longer says "Part 1" or "Part 2", and no longer assumes a group:
+- **Summary slide:** headed "smFISH SIMULATOR SUMMARY" (was "PART 1 SUMMARY"); the fields are "CLAIM · LEADING EXPLANATION" and "UNCERTAINTY · ANYTHING STILL OPEN".
+- **Step 8 and the notebook:** "Claim: your leading explanation" and "Uncertainty: anything still open (optional)". The heading is "Starting point for your follow-up experiments", and the caption and preview label say "Your summary".
+- **Guide:**
+  - The group wording is gone (working in groups, one laptop for the group's notes, "your group's conclusion").
+  - The "Part 1/Part 2" wording is gone, and so is "for the whole session".
+  - It no longer promises that a mechanism will stay unresolved, and *Unresolved* is now "a valid verdict".
+  - The group-assigned system (start page, step 4) and the Groups section stay, as the instructor asked.
+- **Step 1, all cases:** a "Save phenotype" menu beside Next, shown with Next when the recording ends. It exports a 1920×1080 PNG for a white slide: the step's title and the neuron system above, the live drawing redrawn in the light theme (`lightSVG` in `export.js`, fly sprites included, ink boil left out) and "Simulated teaching data" at the foot. Anatomy (step 2) has no Save; the summary slide's locator covers it.
+
+**Checks.**
+- **Review sets:** `tools/review-shots.sh` for pdf, mb and nmj. In the first run the server stopped partway through mb, so the mb and nmj sets were rerun. A brightness check found no error pages in any set. The step 1 and step 8 sheets were looked at in both sizes and themes.
+- **Export, in the browser:**
+  - The phenotype PNG of each case, made from the dark theme: it is light, with fonts, sprites and the T-maze odour fills intact.
+  - The live page stays dark, with no colour fade, and Download writes `smFISH-pdf-phenotype.png`.
+  - Save is hidden at `?t=8` (mid-recording).
+- **Guide screenshots:** retaken with `tools/guide-shots.sh`; step 8 shows the new labels, heading, slide header and caption.
+- **No giveaway:** no changed string hints at a hypothesis or region.
+
+| # | Where | Finding | Status |
+| --- | --- | --- | --- |
+| 1 | Phenotype PNG | The fly sprites' strokes don't scale, so at slide size the flies looked paler than on the page. | Fixed: the sprites' stroke width is scaled by export width ÷ width on screen. |
